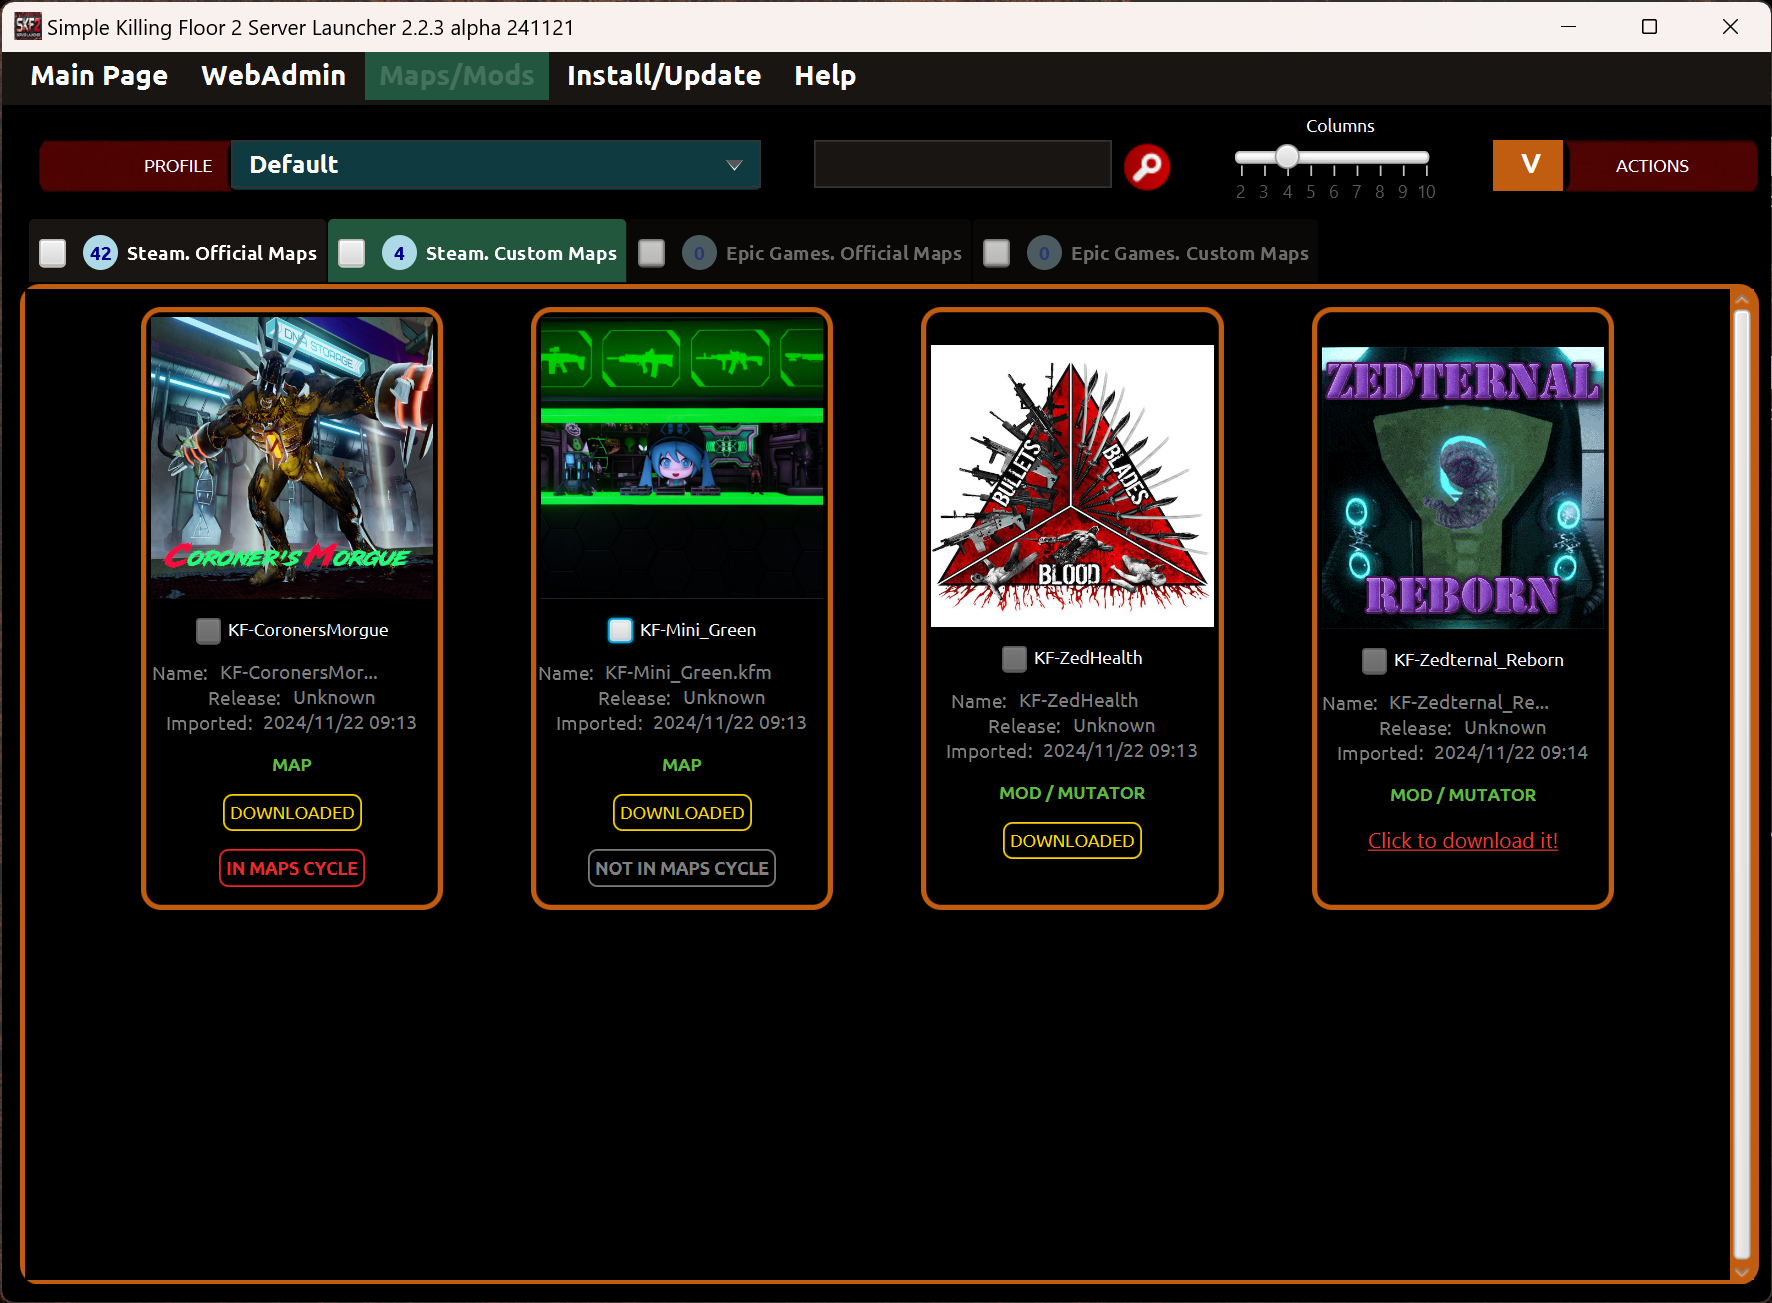
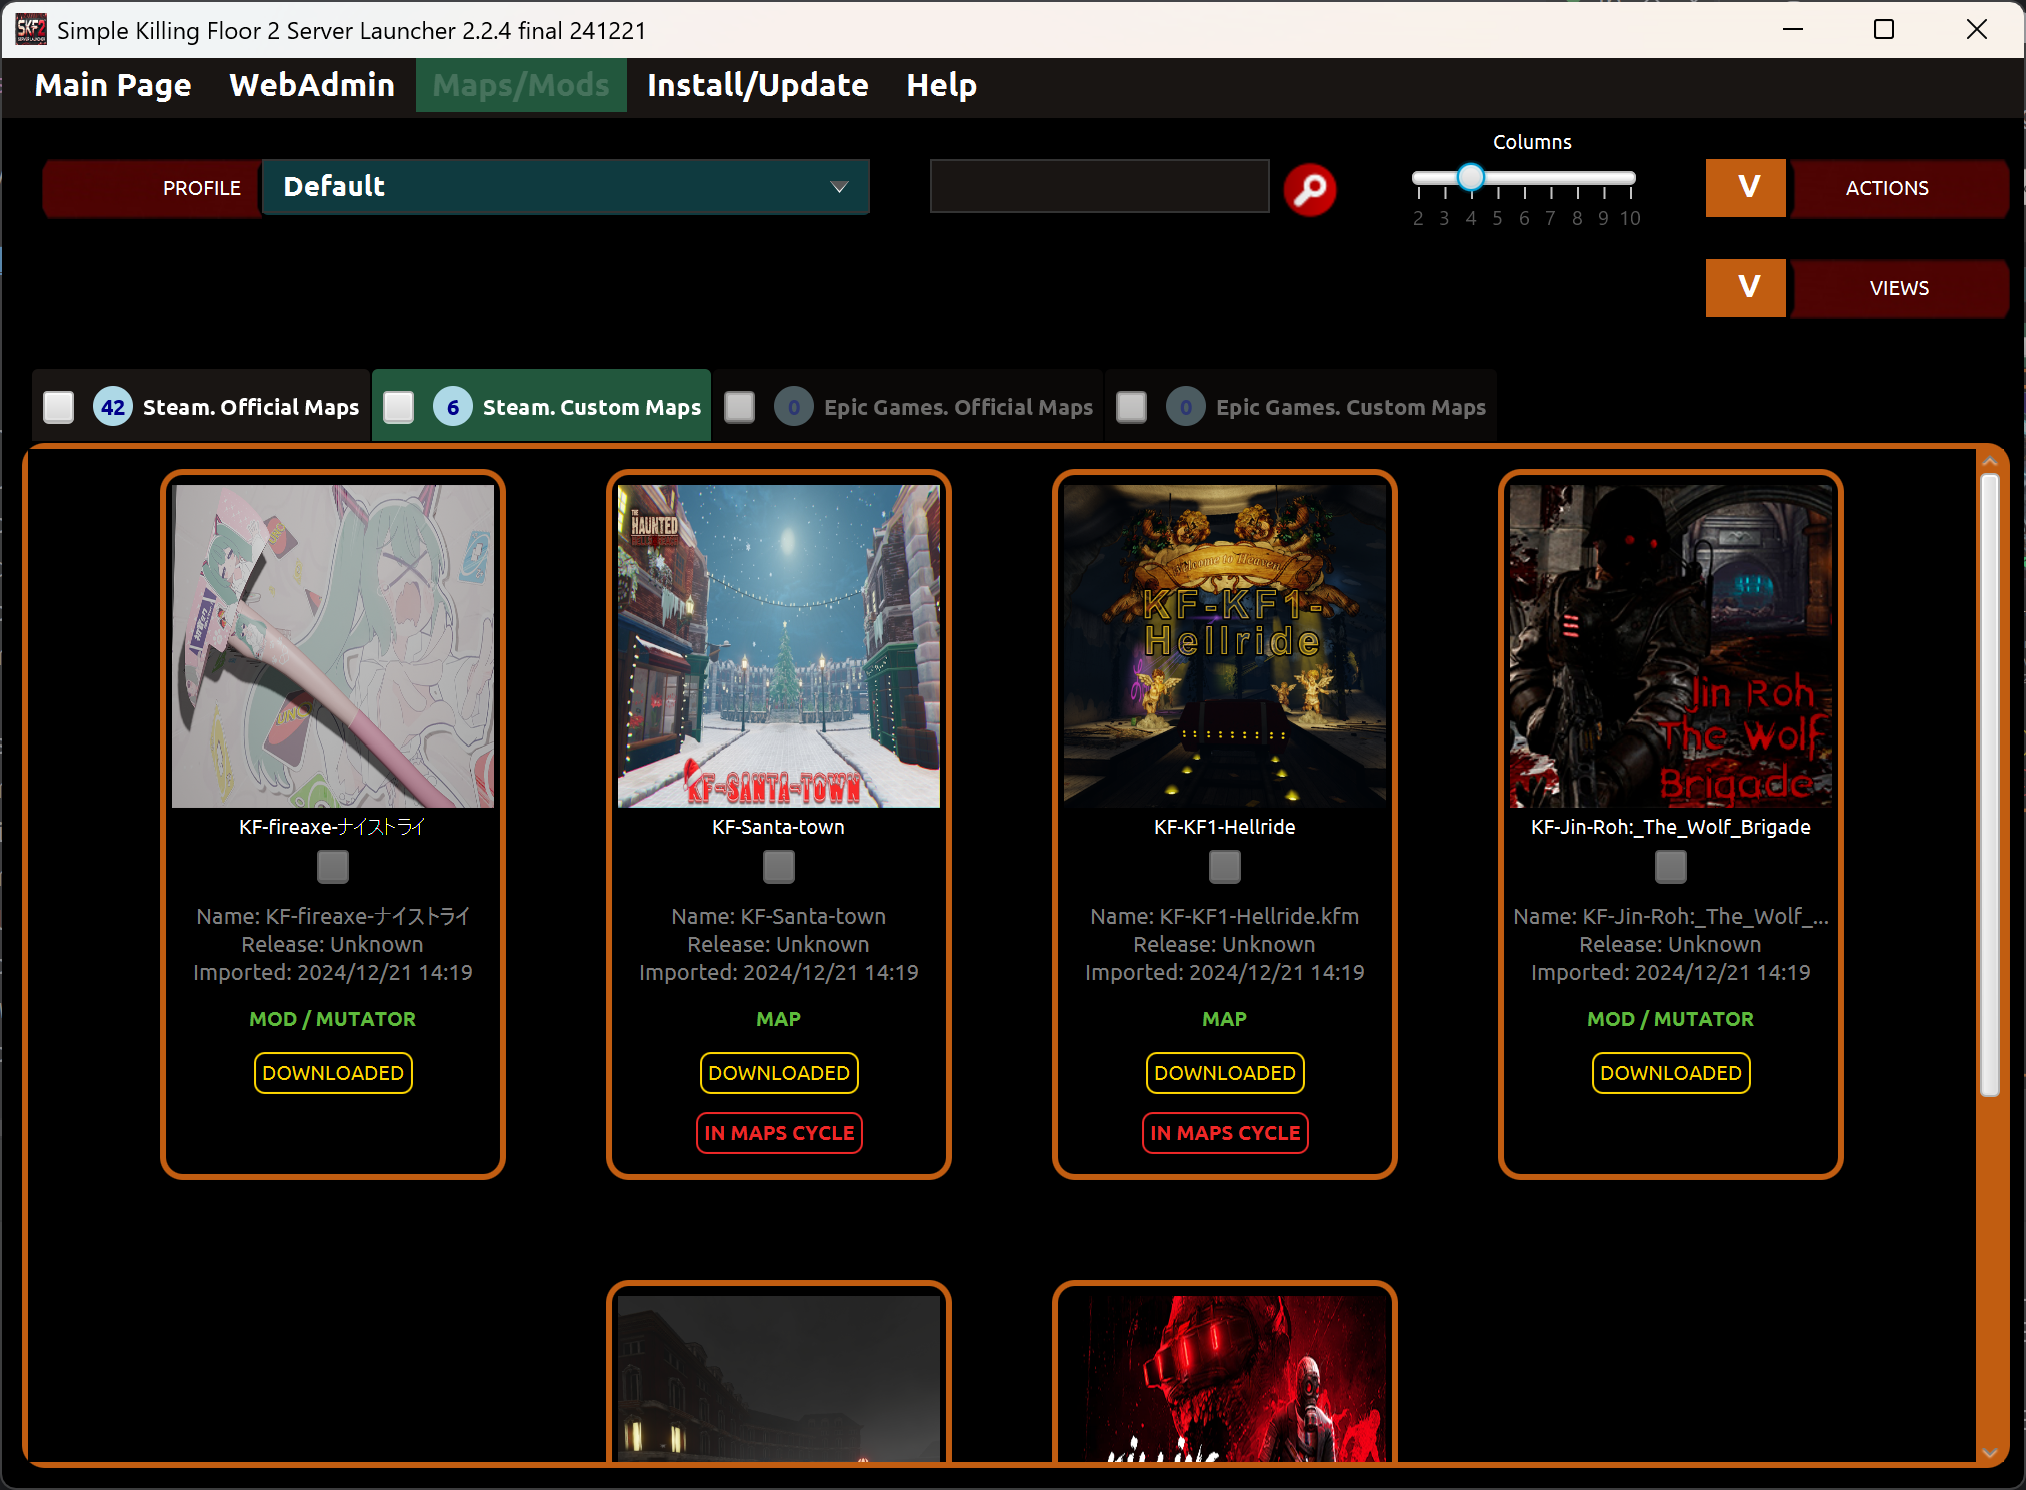
Updates in documentation

diff --git a/doc/es/MAPAS-PERSONALIZADOS.md b/doc/es/MAPAS-PERSONALIZADOS.md
@@ -24,6 +24,13 @@ En la página Mapas/Mods puedes gestionar mapas personalizados, mods y mapas ofi
   * _Ordenar mapas por descarga_: Permite ordenar los mapas por estado de descarga (ascendente or descendente).
   * _Ordenar mapas por ciclo de mapas_: Permite ordenar los mapas por estado "en ciclo de mapas" (ascendente or descendente).
 
+* _Menú de vistas_: Tiene varias opciones para seleccionar vista predefinida.
+  * _Tarjetas hacia abajo_: Vista por defecto (vista clásica) de mapas. Imágen arriba, descripciones abajo.
+  * _Tarjetas a la derecha_: Nueva vista de mapas. Imágen a la izquierda, descripciones a la derecha.
+  * _Tarjetas hacia arriba_: Nueva vista de mapas. Imágen hacia abajo, descripciones hacia arriba.
+  * _Tarjetas a la izquierda_: Nueva vista de mapas. Imágen a la derecha, descripciones a la izquierda.
+  * _Tarjetas detalladas_: Nueva vista de mapas. Imágen a la izquierda, descripciones detalladas a la derecha.
+
 * _Filtro buscador_: Permite filtrar mapas y mods por nombre mientras vas escribiendo el texto. 
 
 * _Selecciona todos por pestaña_: Permite seleccionar todos los mapas para realizar una acción sobre ellos. Además permite deseleccionarlos.

diff --git a/doc/CUSTOM-MAPS.md b/doc/CUSTOM-MAPS.md
@@ -24,6 +24,13 @@ Under Maps/Mods page you can manage custom maps, mods and official maps present 
   * _Order maps by download_: It allows to sort the maps by download state (ascendent or descendent).
   * _Order maps by maps cycle_: It allows to sort the maps by in maps cycle state (ascendent or descendent).
 
+* _Views menu_: It has several options to select a predefined view.
+  * _Cards down_: Default view (classic view) of the maps. Image at the top, descriptions at the bottom.
+  * _Cards right_: New view of the maps. Image at the left, descriptions at the right.
+  * _Cards up_: New view of the maps. Image at the bottom, descriptions at the top.
+  * _Cards left_: New view of the maps. Image at the right, descriptions at the left.
+  * _Detailed cards_: New view of the maps. Image at the left, detailed descriptions at the right.
+  
 * _Search filter_: It allows to filter maps and mods by name while you are writing the text.
 
 * _Select all per tab_: It allows to select all maps to perform an action over them. Furthermore it allows to unselect them.

diff --git a/LEEME.md b/LEEME.md
@@ -6,7 +6,7 @@ _[Click here to open documentation in english | Pulse aquí para abrir documenta
 Aplicación para personalizar y lanzar fácilmente un servidor de Killing Floor 2 a través de una interfaz visual en lugar de editar ficheros batch o de configuración del servidor. Ha sido desarrollado en Java y la interfaz es compatible con los S.O. Windows y Linux.
 
 ```
-Versión: 2.2.3 final
+Versión: 2.2.4 final
 S.O. soportados: Microsoft Windows y Linux (Ubuntu/Debian)
 Plataformas soportadas: Steam y Epic Games
 Desarrollado por: César Rodríguez González

diff --git a/README.md b/README.md
@@ -6,7 +6,7 @@ _[Click here to open documentation in spanish | Pulse aquí para abrir documenta
 Application to easily customize and launch a Killing Floor 2 server through a visual interface instead of edditing batch files or server's config files. It has been developed with Java, so the interface is compatible on Windows and Linux OS.
 
 ```
-Version: 2.2.3 final
+Version: 2.2.4 final
 Supported OS: Microsoft Windows and Linux (Ubuntu/Debian)
 Supported platforms: Steam and Epic Games
 Developed by: César Rodríguez González
